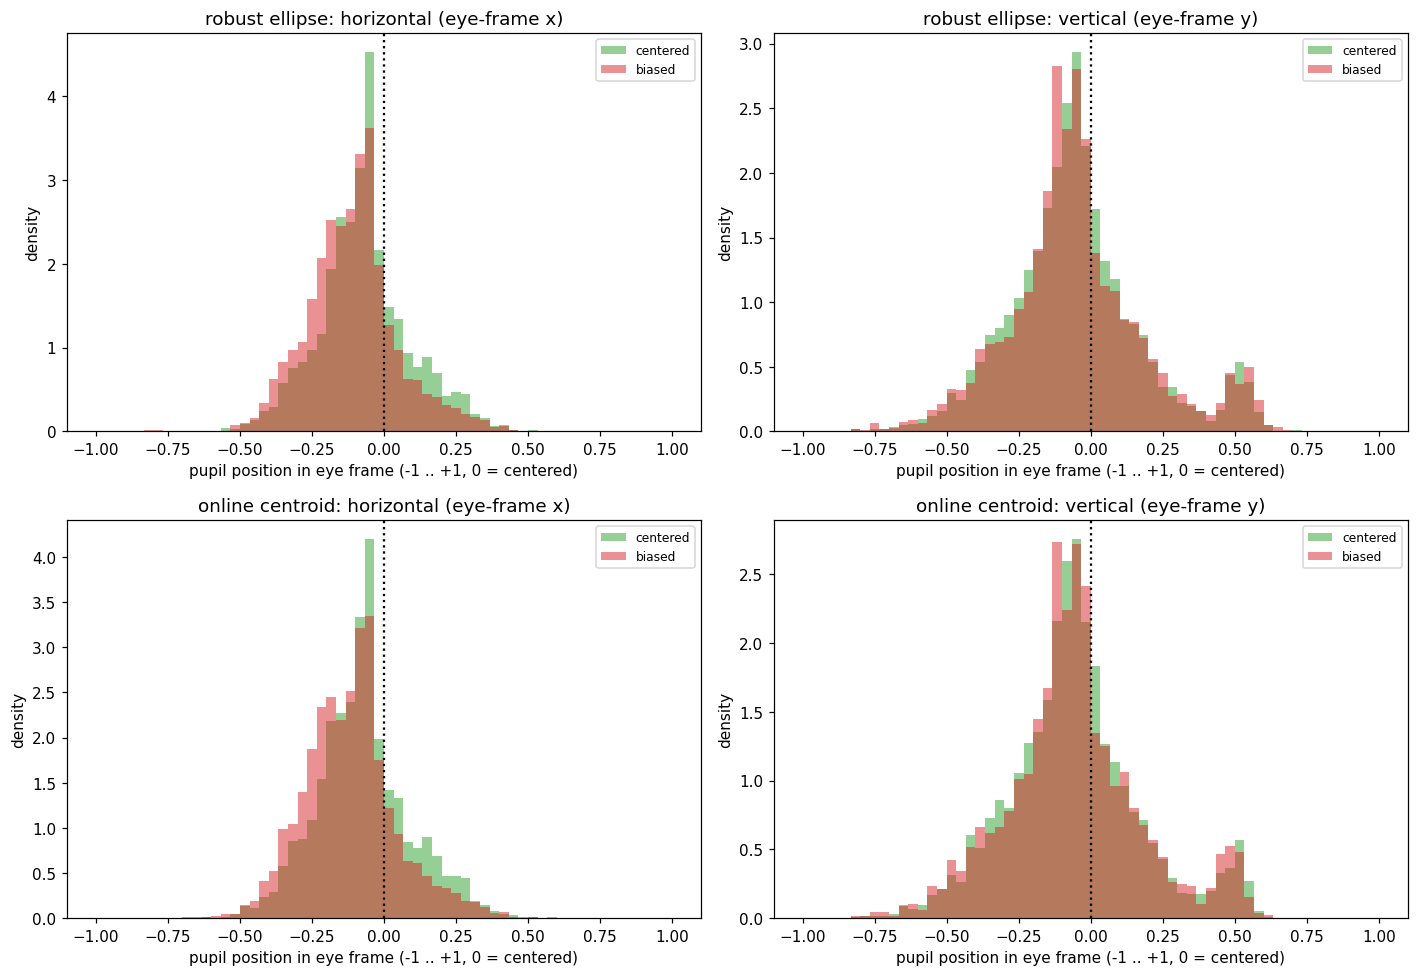
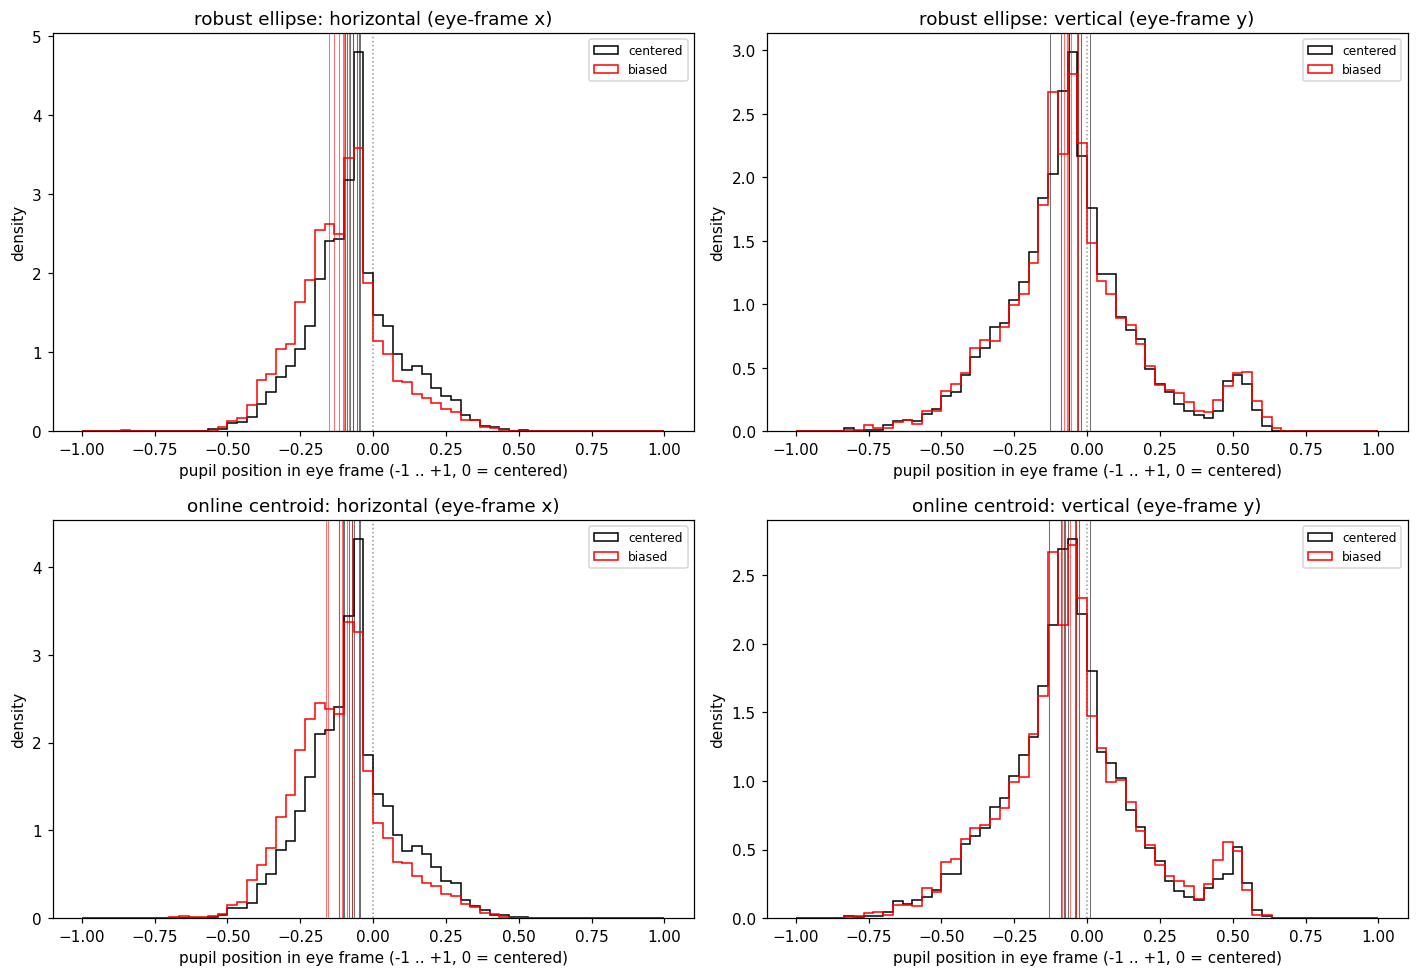
Rerun at N=1000; report with embedded figures, revised conclusion
- N=1000 (639-984 detected frames/session). Results unchanged from N=500:
  horizontal eye-frame position differs by condition (robust t=3.01 p=0.012,
  online t=2.92 p=0.014), vertical null; trackers agree (r=0.99); discrepancy
  not condition-dependent (p=0.36).
- REPORT.md: dropped head-rotation/parallax discussion; conclusion states a real
  horizontal within-eye pupil shift, online==offline, so with good calibration the
  monitor gaze estimate is correct. Embedded example-frame and histogram figures.
- Histograms: histtype=step, black(centered)/red(biased), per-session mean vlines.
- gitignore report_run.log.

diff --git a/eyevideo.py b/eyevideo.py
@@ -589,7 +589,7 @@ def compare_conditions(centered=None, biased=None, conditions=None,
     if conditions is None:
         conditions = {"centered": centered or [], "biased": biased or []}
     names = list(conditions)
-    palette = ["tab:green", "tab:red", "tab:blue", "tab:purple", "tab:orange"]
+    palette = ["black", "red", "tab:blue", "tab:purple", "tab:orange"]
     colors = {nm: palette[i % len(palette)] for i, nm in enumerate(names)}
     trackers = [("ell", "robust ellipse"), ("onl", "online centroid")]
     AX = [("u", 0, "horizontal (eye-frame x)"), ("v", 1, "vertical (eye-frame y)")]
@@ -613,10 +613,12 @@ def compare_conditions(centered=None, biased=None, conditions=None,
     fig, ax = plt.subplots(2, 2, figsize=(13, 9))
     for i, (tr, tlab) in enumerate(trackers):
         for ax_key, j, alab in AX:
+            ax[i][j].axvline(0, color="0.6", ls=":", lw=1)      # eye-center reference
             for nm in names:
-                ax[i][j].hist(pooled[nm][tr][ax_key], bins=bins, range=(-1, 1), alpha=0.5,
-                              color=colors[nm], label=nm, density=True)
-            ax[i][j].axvline(0, color="k", ls=":")
+                ax[i][j].hist(pooled[nm][tr][ax_key], bins=bins, range=(-1, 1), histtype="step",
+                              lw=1.6, color=colors[nm], label=nm, density=True)
+                for sv in daysum[nm][tr][ax_key]:               # per-session mean
+                    ax[i][j].axvline(sv, color=colors[nm], lw=0.7, alpha=0.55)
             ax[i][j].set_title(f"{tlab}: {alab}"); ax[i][j].legend(fontsize=8)
             ax[i][j].set_xlabel("pupil position in eye frame (-1 .. +1, 0 = centered)")
             ax[i][j].set_ylabel("density")

diff --git a/make_report.py b/make_report.py
@@ -7,7 +7,7 @@ import numpy as np
 import eyevideo as ev
 
 ev.ANIMAL_DIR = "/mnt/at-storageB1_I/EyeVideo/AT-B1NO1"
-N = 500
+N = 1000
 HIGH = 50.0
 centered = ['2026-05-27', '2026-04-30', '2026-06-11', '2026-06-09', '2026-03-02', '2026-02-04', '2026-02-13']
 biased   = ['2026-06-04', '2026-05-20', '2026-05-12', '2026-04-17', '2026-03-19', '2026-04-13', '2026-04-07']
@@ -27,6 +27,11 @@ plt.savefig(f"{FIG}/eyeframe_histograms.png", dpi=110, bbox_inches="tight"); plt
 log("compare_conditions done")
 
 daysum = res["daysum"]; perday = res["perday"]
+
+# 3b) example frames with ellipse + cross (2 centered + 2 biased sessions)
+ev.show_tracking_examples([centered[0], centered[3], biased[0], biased[3]], k=5)
+plt.savefig(f"{FIG}/tracking_examples.png", dpi=110, bbox_inches="tight"); plt.close("all")
+log("tracking_examples figure done")
 
 # 4) tracker discrepancy by condition + figure
 ev.compare_agreement(centered, biased, n=N, high=HIGH)